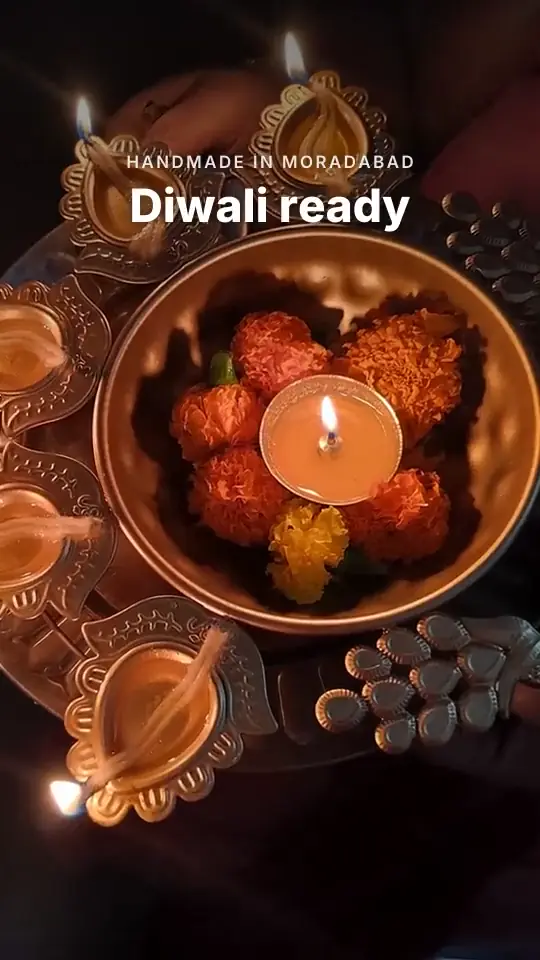
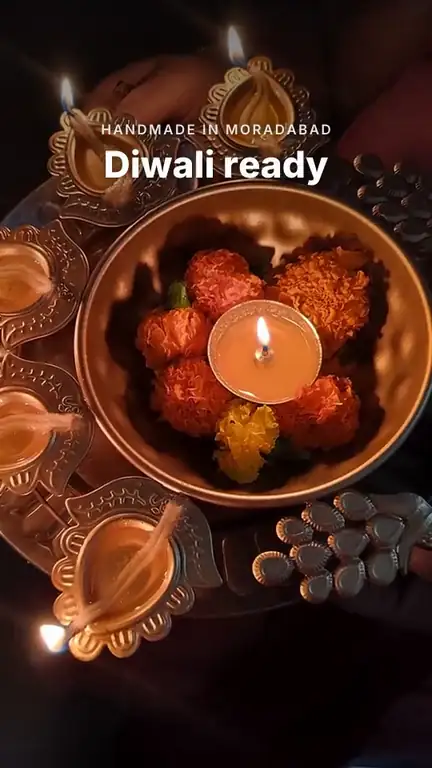
perf(samples): Lighthouse mobile 84 -> 95 (median of 5)
- Videos mount after load + idle (shared useAfterLoad), so the first paint
  and start-up do not compete with video decoding
- Progress bar written to the DOM (transform) instead of React state: a
  playing video no longer re-renders the feed every timeupdate
- No backdrop-filter over moving video (re-blurred every frame)
- Only the ad on screen is built before load; next posters/thumbnail after
- Desktop side panel not rendered on phones; feed links prefetch={false}
- Posters 432x768 WebP (38 KB -> 26 KB)
- Site-wide: guided tour, compare tray and footer clock load after the page
  via a client wrapper (next/dynamic, ssr:false); footer tour button split out
  and a click before the tour loads is remembered
- e2e: tour replay and compare tray tests wait for the deferred UI (99/99)

diff --git a/src/components/reels-feed.tsx b/src/components/reels-feed.tsx
@@ -3,6 +3,7 @@ import Link from "next/link";
 import { useCallback, useEffect, useRef, useState, useSyncExternalStore, type KeyboardEvent, type MouseEvent } from "react";
 import { Check, ChevronDown, ChevronUp, Heart, Pause, Play, ShoppingBag, Star, Store, Volume2, VolumeX } from "lucide-react";
 import { cn } from "@/lib/utils";
+import { useAfterLoad } from "@/lib/use-after-load";
 import { useT } from "./lang";
 import { HeartButton, useWishlist } from "./wishlist";
 import { AddToCart, useCart } from "./cart";
@@ -20,17 +21,20 @@ export interface FeedItem {
 }
 export interface FeedCategory { slug: string; name: string }
 
-const noop = () => () => {};
 const RM = "(prefers-reduced-motion: reduce)";
 const subscribeRM = (cb: () => void) => { const m = matchMedia(RM); m.addEventListener("change", cb); return () => m.removeEventListener("change", cb); };
+const MD = "(min-width: 768px)";
+const subscribeMD = (cb: () => void) => { const m = matchMedia(MD); m.addEventListener("change", cb); return () => m.removeEventListener("change", cb); };
 const DOUBLE_TAP_MS = 280;
 // Light round buttons on top of the video: a 44px touch target that covers as little of the picture as possible.
-const fab = "grid size-11 place-items-center rounded-full bg-black/30 text-white backdrop-blur-sm transition hover:bg-black/45 active:scale-95";
+const fab = "grid size-11 place-items-center rounded-full bg-black/40 text-white transition hover:bg-black/55 active:scale-95";
 
 /**
- * Vertical, one-ad-per-screen feed (scroll snap). Only the ad on screen and the next one get a <video>
- * element; everything else is a poster image, so nothing else downloads. Videos mount after hydration so
- * the first poster is what the browser paints first (Lighthouse LCP).
+ * Vertical, one-ad-per-screen feed (scroll snap). Only the ad on screen and its neighbours are fully
+ * built; the ad on screen and the next one get a <video>, and only once the page has loaded and the main
+ * thread is idle, so the first paint and the page's own start-up are not competing with video decoding.
+ * Playback progress is written straight to the DOM, so a playing video never re-renders the feed.
+ * Feed links use prefetch={false}: prefetching shop and product pages would compete with the first screen.
  * Category chips filter the feed; tap pauses, double-tap saves to the wishlist; on desktop a side panel
  * shows the product in the current ad.
  */
@@ -38,17 +42,20 @@ export function ReelsFeed({ items, categories }: { items: FeedItem[]; categories
   const t = useT();
   const box = useRef<HTMLDivElement>(null);
   const vids = useRef<Map<number, HTMLVideoElement>>(new Map());
-  const hydrated = useSyncExternalStore(noop, () => true, () => false);
   const reduced = useSyncExternalStore(subscribeRM, () => matchMedia(RM).matches, () => false);
+  // The side panel exists only on desktop; phones never build it.
+  const desktop = useSyncExternalStore(subscribeMD, () => matchMedia(MD).matches, () => false);
   const [cat, setCat] = useState("");
   const [active, setActive] = useState(0);
   const [muted, setMuted] = useState(true);
   /** null = default (autoplay unless reduced motion); true/false = the user's choice for this ad. */
   const [userPaused, setUserPaused] = useState<boolean | null>(null);
   const [blocked, setBlocked] = useState(false);
-  const [progress, setProgress] = useState(0);
   const [missing, setMissing] = useState<Record<string, boolean>>({});
   const [expanded, setExpanded] = useState<string | null>(null);
+  const mediaReady = useAfterLoad();
+  const bar = useRef<HTMLDivElement | null>(null);
+  const showProgress = (p: number) => { if (bar.current) bar.current.style.transform = `scaleX(${Math.min(1, p)})`; };
   const [burst, setBurst] = useState<{ key: number; id: string; x: number; y: number } | null>(null);
   const [toast, setToast] = useState<{ kind: "cart" | "wish"; key: number } | null>(null);
   const { add, setOpen: openCart } = useCart();
@@ -71,7 +78,6 @@ export function ReelsFeed({ items, categories }: { items: FeedItem[]; categories
     setActive(0);
     setUserPaused(null);
     setBlocked(false);
-    setProgress(0);
     setExpanded(null);
     box.current?.scrollTo({ top: 0 });
   };
@@ -86,7 +92,7 @@ export function ReelsFeed({ items, categories }: { items: FeedItem[]; categories
           if (e.isIntersecting && e.intersectionRatio >= 0.6) {
             const i = Number((e.target as HTMLElement).dataset.i);
             setActive((cur) => {
-              if (cur !== i) { setUserPaused(null); setBlocked(false); setProgress(0); setExpanded(null); }
+              if (cur !== i) { setUserPaused(null); setBlocked(false); setExpanded(null); }
               return i;
             });
           }
@@ -102,13 +108,15 @@ export function ReelsFeed({ items, categories }: { items: FeedItem[]; categories
   // Only NotAllowedError means "autoplay blocked"; AbortError just means a play() was superseded (the
   // user scrolled on, or the video unmounted) and must not pause the ad that is now on screen.
   useEffect(() => {
+    // A new ad starts with an empty progress bar (bars are written directly, outside React).
+    box.current?.querySelectorAll<HTMLElement>("[data-bar]").forEach((b) => { if (b !== bar.current) b.style.transform = ""; });
     vids.current.forEach((v, i) => {
       v.muted = muted;
       if (i === active && !paused) {
         v.play().catch((e: unknown) => { if ((e as Error)?.name === "NotAllowedError") setBlocked(true); });
       } else v.pause();
     });
-  }, [active, paused, muted, hydrated, cat]);
+  }, [active, paused, muted, mediaReady, cat]);
 
   // Tap = play/pause, double-tap = save to wishlist with a heart burst. The single tap waits briefly so a
   // double-tap never also pauses. Keyboard activation (detail 0) toggles at once.
@@ -168,8 +176,8 @@ export function ReelsFeed({ items, categories }: { items: FeedItem[]; categories
                   aria-pressed={on}
                   onClick={() => pick(c.slug)}
                   className={cn(
-                    "h-8 shrink-0 rounded-full px-3.5 text-sm font-medium backdrop-blur-md transition",
-                    on ? "bg-white text-black md:bg-accent md:text-accent-fg" : "bg-white/15 text-white hover:bg-white/25 md:border md:border-line md:bg-surface md:text-fg md:backdrop-blur-none md:hover:bg-surface2",
+                    "h-8 shrink-0 rounded-full px-3.5 text-sm font-medium transition",
+                    on ? "bg-white text-black md:bg-accent md:text-accent-fg" : "bg-black/40 text-white hover:bg-black/55 md:border md:border-line md:bg-surface md:text-fg md:hover:bg-surface2",
                   )}
                 >
                   {c.name}
@@ -191,7 +199,22 @@ export function ReelsFeed({ items, categories }: { items: FeedItem[]; categories
           className="fixed inset-0 z-[35] snap-y snap-mandatory overflow-y-auto overscroll-y-contain bg-black text-white outline-none no-scrollbar md:static md:z-auto md:aspect-[9/16] md:h-[calc(100dvh-12rem)] md:max-h-[820px] md:shrink-0 md:rounded-2xl md:focus-visible:ring-4 md:focus-visible:ring-fg/20"
         >
           {shown.map((it, i) => {
-            const near = hydrated && (i === active || i === active + 1) && !missing[it.id];
+            const near = mediaReady && (i === active || i === active + 1) && !missing[it.id];
+            // Only the first ad's images load with the page; the next ad's poster and thumbnail wait for
+            // mediaReady, so nothing competes with the first screen.
+            const images = i === 0 || mediaReady;
+            // Far-away ads are just an empty, snap-able slide until the viewer gets close.
+            // Before mediaReady only the first screen is built; the next ad fills in right after load.
+            if (Math.abs(i - active) > 1 || (!mediaReady && i !== active)) {
+              return (
+                <section key={it.id} data-i={i} aria-roledescription="slide" aria-label={t("samples.slide", { i: i + 1, n: shown.length, shop: it.shop.name })} className="relative h-full w-full snap-start snap-always overflow-hidden bg-black">
+                  {i === active + 2 && mediaReady && (
+                    // eslint-disable-next-line @next/next/no-img-element
+                    <img src={it.poster} alt="" width={540} height={960} loading="lazy" decoding="async" className="absolute inset-0 h-full w-full object-cover" />
+                  )}
+                </section>
+              );
+            }
             const isActive = i === active;
             const open = expanded === it.id;
             return (
@@ -204,7 +227,7 @@ export function ReelsFeed({ items, categories }: { items: FeedItem[]; categories
               >
                 {/* Poster: always rendered underneath; the first one is the LCP image. */}
                 {/* eslint-disable-next-line @next/next/no-img-element */}
-                <img src={it.poster} alt="" width={540} height={960} loading={i === 0 ? "eager" : "lazy"} fetchPriority={i === 0 ? "high" : undefined} decoding={i === 0 ? "sync" : "async"} className="absolute inset-0 h-full w-full object-cover" />
+                {images && <img src={it.poster} alt="" width={540} height={960} loading={i === 0 ? "eager" : "lazy"} fetchPriority={i === 0 ? "high" : undefined} decoding={i === 0 ? "sync" : "async"} className="absolute inset-0 h-full w-full object-cover" />}
                 {near && (
                   <video
                     ref={(el) => { if (el) vids.current.set(i, el); else vids.current.delete(i); }}
@@ -215,7 +238,7 @@ export function ReelsFeed({ items, categories }: { items: FeedItem[]; categories
                     playsInline
                     preload="auto"
                     aria-label={it.caption}
-                    onTimeUpdate={isActive ? (e) => setProgress(e.currentTarget.currentTime / (e.currentTarget.duration || it.durationSec)) : undefined}
+                    onTimeUpdate={isActive ? (e) => showProgress(e.currentTarget.currentTime / (e.currentTarget.duration || it.durationSec)) : undefined}
                     onError={() => setMissing((m) => ({ ...m, [it.id]: true }))}
                     className="absolute inset-0 h-full w-full object-cover"
                   />
@@ -232,13 +255,13 @@ export function ReelsFeed({ items, categories }: { items: FeedItem[]; categories
                   <Heart key={burst.key} aria-hidden className="heart-burst pointer-events-none absolute z-20 size-24 fill-white text-white drop-shadow-[0_4px_16px_rgb(0_0_0/0.45)]" style={{ left: burst.x - 48, top: burst.y - 48 }} />
                 )}
                 {isActive && paused && (
-                  <span className="pointer-events-none absolute left-1/2 top-1/2 z-20 grid size-16 -translate-x-1/2 -translate-y-1/2 place-items-center rounded-full bg-black/45 backdrop-blur-sm" aria-hidden>
+                  <span className="pointer-events-none absolute left-1/2 top-1/2 z-20 grid size-16 -translate-x-1/2 -translate-y-1/2 place-items-center rounded-full bg-black/50" aria-hidden>
                     <Play className="ml-1 size-7 fill-white" />
                   </span>
                 )}
                 {/* Progress */}
                 <div className="pointer-events-none absolute inset-x-0 top-0 z-20 h-0.5 bg-white/25" aria-hidden>
-                  <div className="h-full bg-white transition-[width] duration-200 ease-linear" style={{ width: isActive ? `${Math.min(100, progress * 100)}%` : "0%" }} />
+                  <div ref={isActive ? bar : undefined} data-bar className="h-full origin-left scale-x-0 bg-white transition-transform duration-200 ease-linear" />
                 </div>
                 {missing[it.id] && <p className="absolute inset-x-4 top-24 z-20 rounded-lg bg-black/60 px-3 py-2 text-xs">{t("samples.unavailable")}</p>}
 
@@ -247,7 +270,7 @@ export function ReelsFeed({ items, categories }: { items: FeedItem[]; categories
                 <div className="absolute inset-x-0 bottom-0 z-30 flex items-end gap-3 px-4 pb-[calc(4.5rem+env(safe-area-inset-bottom))] md:pb-5">
                   <div className="min-w-0 flex-1 space-y-2.5">
                     <div className="flex items-center gap-2">
-                      <Link href={`/store/${it.shop.id}`} className="flex min-w-0 items-center gap-2 text-sm font-semibold [text-shadow:0_1px_2px_rgb(0_0_0/0.5)] hover:underline">
+                      <Link prefetch={false} href={`/store/${it.shop.id}`} className="flex min-w-0 items-center gap-2 text-sm font-semibold [text-shadow:0_1px_2px_rgb(0_0_0/0.5)] hover:underline">
                         <span className="grid size-7 shrink-0 place-items-center rounded-full border border-white/60 text-xs" style={{ background: `hsl(${it.shop.hue} 70% 90%)` }} aria-hidden>{it.shop.emoji}</span>
                         <span className="truncate">{it.shop.name}</span>
                       </Link>
@@ -262,8 +285,8 @@ export function ReelsFeed({ items, categories }: { items: FeedItem[]; categories
                       )}
                     </div>
                     {/* Phone: slim product bar (desktop shows the side panel instead). */}
-                    <Link href={`/product/${it.product.id}`} className="flex items-center gap-2.5 rounded-xl bg-black/35 p-1.5 pr-2 ring-1 ring-white/15 backdrop-blur-md transition hover:bg-black/45 md:hidden">
-                      <span className="size-10 shrink-0 overflow-hidden rounded-lg bg-white/10"><ProductArt src={it.product.image} alt="" sizes="40px" /></span>
+                    <Link prefetch={false} href={`/product/${it.product.id}`} className="flex items-center gap-2.5 rounded-xl bg-black/50 p-1.5 pr-2 ring-1 ring-white/15 transition hover:bg-black/60 md:hidden">
+                      <span className="size-10 shrink-0 overflow-hidden rounded-lg bg-white/10">{mediaReady && <ProductArt src={it.product.image} alt="" sizes="40px" />}</span>
                       <span className="min-w-0 flex-1">
                         <span className="line-clamp-2 text-[13px] font-medium leading-tight">{it.product.title}</span>
                         <span className="block text-xs tabular-nums text-white/80">{it.product.price}</span>
@@ -310,7 +333,7 @@ export function ReelsFeed({ items, categories }: { items: FeedItem[]; categories
           <button type="button" onClick={() => go(active + 1)} disabled={active >= shown.length - 1} aria-label={t("samples.next")} className="grid size-11 place-items-center rounded-full border border-line bg-surface transition hover:bg-surface2 disabled:opacity-40"><ChevronDown className="size-5" /></button>
         </div>
 
-        {current && <AdPanel key={current.id} it={current} />}
+        {current && (desktop ? <AdPanel key={current.id} it={current} /> : <div aria-hidden className="hidden w-80 shrink-0 md:block" />)}
       </div>
 
       {toast && (
@@ -335,21 +358,21 @@ function AdPanel({ it }: { it: FeedItem }) {
   const [stockText, stockTone] = p.stock < 1 ? [t("out_of_stock"), "text-bad"] : p.stock <= p.lowStock ? [t("low_stock", { n: p.stock }), "text-warn"] : [t("in_stock"), "text-ok"];
   return (
     <aside aria-label={t("samples.panel")} data-fly-root className="fade-in hidden w-80 shrink-0 flex-col gap-4 overflow-y-auto rounded-2xl border border-line bg-surface p-5 md:flex md:h-[calc(100dvh-12rem)] md:max-h-[820px]">
-      <Link href={`/store/${it.shop.id}`} className="flex items-center gap-2 text-sm hover:underline">
+      <Link prefetch={false} href={`/store/${it.shop.id}`} className="flex items-center gap-2 text-sm hover:underline">
         <span className="grid size-8 shrink-0 place-items-center rounded-full text-sm" style={{ background: `hsl(${it.shop.hue} 70% 90%)` }} aria-hidden>{it.shop.emoji}</span>
         <span className="min-w-0"><span className="block truncate font-semibold">{it.shop.name}</span><span className="block text-xs text-muted">{it.shop.city}</span></span>
       </Link>
-      <Link href={`/product/${p.id}`} className="block overflow-hidden rounded-xl bg-surface2"><ProductArt src={p.image} alt={p.title} sizes="280px" /></Link>
+      <Link prefetch={false} href={`/product/${p.id}`} className="block overflow-hidden rounded-xl bg-surface2"><ProductArt src={p.image} alt={p.title} sizes="280px" /></Link>
       <div>
-        <Link href={`/product/${p.id}`} className="text-lg font-semibold leading-snug tracking-tight hover:underline">{p.title}</Link>
+        <Link prefetch={false} href={`/product/${p.id}`} className="text-lg font-semibold leading-snug tracking-tight hover:underline">{p.title}</Link>
         {p.ratingCount > 0 && <p className="mt-1 flex items-center gap-1 text-sm text-muted"><Star className="size-3.5 fill-fg text-fg" aria-hidden /> <span className="font-medium text-fg">{p.rating.toFixed(1)}</span> · {t("samples.ratings", { n: p.ratingCount })}</p>}
       </div>
       <div className="flex items-baseline gap-3"><span className="text-2xl font-semibold tabular-nums">{p.price}</span><span className={cn("text-sm", stockTone)}>{stockText}</span></div>
       <p className="line-clamp-4 text-sm leading-relaxed text-muted">{p.description}</p>
       <div className="mt-auto space-y-2 pt-1">
         <AddToCart id={p.id} stock={p.stock} className="h-11 w-full" />
-        <Link href={`/product/${p.id}`} className={cn(btn("outline", "md"), "h-10 w-full")}>{t("samples.viewProduct")}</Link>
-        <Link href={`/store/${it.shop.id}`} className="flex items-center justify-center gap-1.5 pt-1 text-sm text-muted transition hover:text-fg"><Store className="size-4" aria-hidden />{t("samples.moreFromShop", { shop: it.shop.name })}</Link>
+        <Link prefetch={false} href={`/product/${p.id}`} className={cn(btn("outline", "md"), "h-10 w-full")}>{t("samples.viewProduct")}</Link>
+        <Link prefetch={false} href={`/store/${it.shop.id}`} className="flex items-center justify-center gap-1.5 pt-1 text-sm text-muted transition hover:text-fg"><Store className="size-4" aria-hidden />{t("samples.moreFromShop", { shop: it.shop.name })}</Link>
       </div>
     </aside>
   );

diff --git a/src/app/layout.tsx b/src/app/layout.tsx
@@ -9,14 +9,13 @@ import { AssistantBoundary } from "@/components/assistant-boundary";
 import { getSession } from "@/lib/session";
 import { LangToggle } from "@/components/lang-toggle";
 import { RevealObserver } from "@/components/reveal";
-import { LiveClock } from "@/components/live-clock";
 import { SideNav } from "@/components/side-nav";
 import { sideNavData } from "@/lib/nav";
 import { getWishlistIds } from "@/lib/wishlist";
 import { WishlistProvider } from "@/components/wishlist";
 import { BottomNav } from "@/components/bottom-nav";
-import { CompareTray } from "@/components/compare";
-import { GuidedTour, TourStartButton } from "@/components/guided-tour";
+import { DeferredClock, DeferredShopUI } from "@/components/deferred-ui";
+import { TourStartButton } from "@/components/tour-start-button";
 import { Suspense } from "react";
 import { LangProvider } from "@/components/lang";
 import { clientMessages, t } from "@/lib/i18n";
@@ -67,15 +66,14 @@ export default async function RootLayout({ children }: { children: React.ReactNo
                     {shop && <TourStartButton />}
                     <span className="text-muted"><LangToggle lang={s.lang} /></span>
                   </nav>
-                  <LiveClock />
+                  <DeferredClock />
                 </div>
               </footer>
             </div>
           </div>
           {shop && <AssistantBoundary><AssistantLazy aiLive={aiEnabled()} /></AssistantBoundary>}
           {shop && <BottomNav />}
-          {shop && <CompareTray />}
-          {shop && <GuidedTour />}
+          {shop && <DeferredShopUI />}
           <CartDrawer />
           <RevealObserver />
           </WishlistProvider>

diff --git a/src/components/guided-tour.tsx b/src/components/guided-tour.tsx
@@ -65,9 +65,13 @@ export function GuidedTour() {
 
   // Auto-start once on the home page; ?tour=1 forces it; the footer link fires "start-tour".
   useEffect(() => {
-    const onStart = () => start();
+    // The footer button sets this flag too, in case it is clicked before this (deferred) component loads.
+    const w = window as Window & { __bzTourRequested?: boolean };
+    const onStart = () => { w.__bzTourRequested = false; start(); };
     window.addEventListener("start-tour", onStart);
-    const forced = new URLSearchParams(window.location.search).get("tour") === "1";
+    const requested = !!w.__bzTourRequested;
+    w.__bzTourRequested = false;
+    const forced = requested || new URLSearchParams(window.location.search).get("tour") === "1";
     let seen = false;
     try { seen = localStorage.getItem(DONE_KEY) === "1"; } catch {}
     const auto = !forced && path === "/" && !seen && !navigator.webdriver;
@@ -134,8 +138,3 @@ export function GuidedTour() {
   );
 }
 
-/** Footer link that replays the tour. */
-export function TourStartButton() {
-  const t = useT();
-  return <button type="button" onClick={() => window.dispatchEvent(new Event("start-tour"))} className="text-left hover:text-muted">{t("tour.start")}</button>;
-}

diff --git a/src/components/deferred-ui.tsx b/src/components/deferred-ui.tsx
@@ -1,0 +1,31 @@
+"use client";
+import dynamic from "next/dynamic";
+import { useAfterLoad } from "@/lib/use-after-load";
+
+/**
+ * Layout pieces that are not needed for the first screen, loaded only after the page has loaded (see
+ * useAfterLoad). The dynamic imports live here, in a client component, because code splitting does not
+ * apply when a Server Component (the layout) imports them directly.
+ */
+const GuidedTour = dynamic(() => import("./guided-tour").then((m) => m.GuidedTour), { ssr: false });
+const CompareTray = dynamic(() => import("./compare").then((m) => m.CompareTray), { ssr: false });
+const LiveClock = dynamic(() => import("./live-clock").then((m) => m.LiveClock), { ssr: false, loading: () => <ClockSpace /> });
+
+const ClockSpace = () => <span className="inline-block h-10" aria-hidden />;
+
+/** Shoppers only: the first-visit tour and the compare tray. */
+export function DeferredShopUI() {
+  const ready = useAfterLoad();
+  if (!ready) return null;
+  return (
+    <>
+      <CompareTray />
+      <GuidedTour />
+    </>
+  );
+}
+
+/** Footer clock (reserves its height so nothing shifts when it appears). */
+export function DeferredClock() {
+  return useAfterLoad() ? <LiveClock /> : <ClockSpace />;
+}

diff --git a/src/lib/use-after-load.ts b/src/lib/use-after-load.ts
@@ -1,0 +1,29 @@
+"use client";
+import { useSyncExternalStore } from "react";
+
+/**
+ * True once the page has finished loading and the main thread has had an idle moment. Use it to hold back
+ * anything that is not needed for the first screen (videos, the guided tour, the compare tray...), so it
+ * never competes with the first paint. One shared timer for the whole page; false during SSR/hydration.
+ */
+let ready = false;
+let started = false;
+const listeners = new Set<() => void>();
+
+function start() {
+  if (started) return;
+  started = true;
+  const done = () => { ready = true; listeners.forEach((l) => l()); };
+  // Safari has no requestIdleCallback: fall back to a short timeout.
+  const idle = () => (typeof window.requestIdleCallback === "function" ? window.requestIdleCallback(done, { timeout: 1500 }) : window.setTimeout(done, 300));
+  if (document.readyState === "complete") idle();
+  else window.addEventListener("load", idle, { once: true });
+}
+
+function subscribe(cb: () => void) {
+  listeners.add(cb);
+  start();
+  return () => { listeners.delete(cb); };
+}
+
+export const useAfterLoad = () => useSyncExternalStore(subscribe, () => ready, () => false);

diff --git a/src/components/tour-start-button.tsx b/src/components/tour-start-button.tsx
@@ -1,0 +1,16 @@
+"use client";
+import { useT } from "./lang";
+
+/**
+ * Footer "Take the tour" link. Kept apart from the tour itself so the footer does not pull the tour's code
+ * into every page; the tour loads after the page and listens for "start-tour". The flag covers a click
+ * that lands before the tour has loaded.
+ */
+export function TourStartButton() {
+  const t = useT();
+  const start = () => {
+    (window as Window & { __bzTourRequested?: boolean }).__bzTourRequested = true;
+    window.dispatchEvent(new Event("start-tour"));
+  };
+  return <button type="button" onClick={start} className="text-left hover:text-muted">{t("tour.start")}</button>;
+}

diff --git a/evals/report.md b/evals/report.md
@@ -1,6 +1,6 @@
 # Eval & invariant report
 
-Generated 2026-11-28T13:22:49.507Z · 156 checks · **156 passed, 0 failed**
+Generated 2026-11-28T13:44:19.464Z · 156 checks · **156 passed, 0 failed**
 
 | Group | Passed | Total |
 |---|---|---|
@@ -84,7 +84,7 @@ All checks passed.
 - ✅ [search] golden: “achaar”
 - ✅ [search] golden: “kurtaa”
 - ✅ [search] golden hit-rate ≥ 90% (18/18)
-- ✅ [search] p95 latency < 150 ms (NFR-03) (p95=2.13ms)
+- ✅ [search] p95 latency < 150 ms (NFR-03) (p95=2.77ms)
 - ✅ [search] price filter parsed from “under 500”
 - ✅ [search] flagged listing never appears in search
 - ✅ [agent] price/stock/budget accuracy: “diwali gift 2000 tak maa ke liye”
@@ -127,7 +127,7 @@ All checks passed.
 - ✅ [listing] tiny/blank photo prompts a retake
 - ✅ [listing] draft has Hindi + English copy and a price hint, but no final price field
 - ✅ [persistence] replaying the mutation log on a fresh seed reproduces the exact state (18 logged actions)
-- ✅ [persistence] log fits the signed cookie budget (963 bytes in 1 cookie(s))
+- ✅ [persistence] log fits the signed cookie budget (957 bytes in 1 cookie(s))
 - ✅ [persistence] cookie round-trip returns the same log
 - ✅ [persistence] tampered cookie is rejected (ignored, never trusted)
 - ✅ [persistence] seed order ids are deterministic across cold starts (grp_seed_NN)
